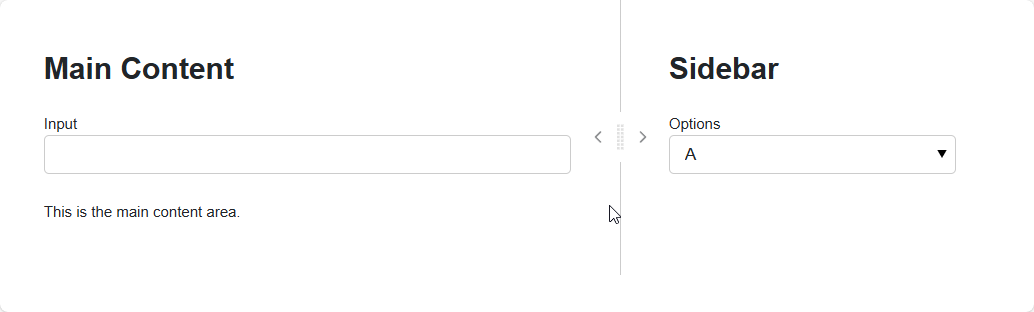
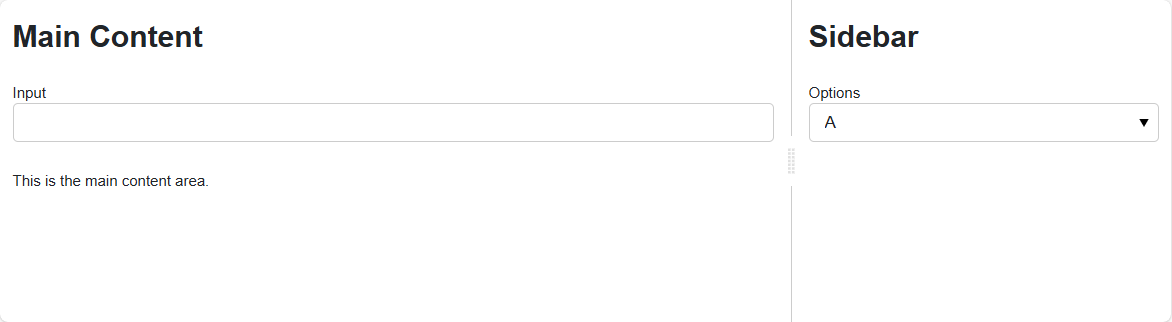
review

diff --git a/src/panel_splitjs/base.py b/src/panel_splitjs/base.py
@@ -109,7 +109,7 @@ class Split(SplitBase):
         The component to place in the left panel.
         When invert=True, this will appear on the right side.""")
 
-    show_buttons = param.Boolean(default=True, doc="""
+    show_buttons = param.Boolean(default=False, doc="""
         Whether to show the toggle buttons on the divider.
         When False, the buttons are hidden and panels can only be resized by dragging.""")
 

diff --git a/README.md b/README.md
@@ -41,11 +41,10 @@ pn.extension()
 
 # Create a simple split layout
 split = Split(
-    pn.pane.Markdown("## Left Panel\nContent here", width=150, margin=25),
-    pn.pane.Markdown("## Right Panel\nMore content", width=150, margin=25),
+    pn.pane.Markdown("## Left Panel\nContent here", width=150),
+    pn.pane.Markdown("## Right Panel\nMore content", width=150),
     sizes=(50, 50),  # Equal sizing initially
     min_size=150,     # Minimum 150px for each panel
-    show_buttons=True, # Show collapse/expand buttons on the divider
     sizing_mode="stretch_both",
 )
 
@@ -99,23 +98,47 @@ from panel_splitjs import VSplit
 
 pn.extension()
 
-top_panel = pn.pane.Markdown("## Top Section\nHeader content", margin=(10,10,25,10))
-bottom_panel = pn.pane.Markdown("## Bottom Section\nFooter content", margin=(25,10,10,10))
+top_panel = pn.pane.Markdown("## Top Section\nHeader content")
+bottom_panel = pn.pane.Markdown("## Bottom Section\nFooter content")
 
 split = VSplit(
     top_panel,
     bottom_panel,
-    sizes=(60, 40),
-    min_size=150,
-    height=500,
-    width=300,
-    styles={"border": "1px solid gray"}
+    sizes=(70, 30),
+    min_size=200,
+    height=600,
+    sizing_mode="stretch_width"
 )
 
 split.servable()
 ```
 
 ![Basic Vertical Split Example](docs/assets/images/basic-vertical-split.png)
+
+### Show Buttons
+
+```python
+import panel as pn
+from panel_splitjs import Split
+
+pn.extension()
+
+# Create a simple split layout
+split = Split(
+    pn.pane.Markdown("## Left Panel\nContent here", width=150, margin=(10,25,10,10)),
+    pn.pane.Markdown("## Right Panel\nMore content", width=150, margin=(10,10,10,25)),
+    sizes=(50, 50),  # Equal sizing initially
+    min_size=150,     # Minimum 150px for each panel
+    show_buttons=True,
+    sizing_mode="stretch_both",
+)
+
+split.servable()
+```
+
+Note: We add `margin` to the `Markdown` panes to not overlay the buttons onto them.
+
+![Show Buttons Example](docs/assets/images/show-buttons.png)
 
 ### Collapsible Sidebar
 
@@ -133,7 +156,6 @@ split = Split(
     pn.pane.Markdown("## Collapsible Sidebar", margin=(10,10,10,25)),
     collapsed=1,  # 0 for first panel, 1 for second panel, None for not collapsed
     expanded_sizes=(80, 20),  # When expanded, 80% main, 20% sidebar
-    show_buttons=False,
     sizing_mode="stretch_both",
 )
 
@@ -146,7 +168,7 @@ button.on_click(toggle)
 split.servable()
 ```
 
-![Collapsable Sidebar Example](docs/assets/images/collapsable-sidebar.gif)
+![Collapsible Sidebar Example](docs/assets/images/Collapsible-sidebar.gif)
 
 ### Multi-Panel Split
 
@@ -186,7 +208,7 @@ The main split panel component for creating two-panel layouts with collapsible f
 - `max_size` (int | tuple, default=None): Maximum sizes in pixels - single value applies to both panels, tuple for individual sizes
 - `min_size` (int | tuple, default=0): Minimum sizes in pixels - single value applies to both panels, tuple for individual sizes
 - `orientation` (str, default="horizontal"): Either `"horizontal"` or `"vertical"`
-- `show_buttons` (bool, default=True): Show collapse/expand toggle buttons on the divider
+- `show_buttons` (bool, default=False): Show collapse/expand toggle buttons on the divider
 - `sizes` (tuple, default=(50, 50)): Initial percentage sizes of the panels
 - `snap_size` (int, default=30): Snap to minimum size at this offset in pixels
 - `step_size` (int, default=1): Step size in pixels at which panel sizes can be changed
@@ -236,7 +258,6 @@ split = Split(
     output,
     collapsed=None,  # Both panels visible
     expanded_sizes=(50, 50),
-    show_buttons=True,
     min_size=(600, 300),  # Minimum 300px for each panel
     sizing_mode="stretch_both",
 )
@@ -276,7 +297,7 @@ split = Split(
 split.servable()
 ```
 
-![Dashboard with Collapsable Controls](docs/assets/images/dashboard-with-collapsable-controls.png)
+![Dashboard with Collapsible Controls](docs/assets/images/dashboard-with-Collapsible-controls.png)
 
 ### Responsive Layout with Size Constraints
 
@@ -300,7 +321,7 @@ split = Split(
 split.servable()
 ```
 
-![Responsibe Layout with Size Constraints](docs/assets/images/responsive-layout-with-size-constraints.png)
+![Responsive Layout with Size Constraints](docs/assets/images/responsive-layout-with-size-constraints.png)
 
 ### Complex Multi-Panel Layout
 
@@ -346,9 +367,9 @@ left = pn.pane.Markdown("## Left Panel")
 
 # Right side has a vertical split
 with pn.config.set(sizing_mode="stretch_both"):
-    top_right = pn.pane.Markdown("## Top Right", margin=(5,25,5,5))
-    bottom_right = pn.pane.Markdown("## Bottom Right", margin=(25,25,5,5))
-    right = VSplit(top_right, bottom_right, sizes=(60, 40), margin=(5,5,25,25))
+    top_right = pn.pane.Markdown("## Top Right")
+    bottom_right = pn.pane.Markdown("## Bottom Right")
+    right = VSplit(top_right, bottom_right, sizes=(60, 40))
 
     # Main horizontal split
     layout = HSplit(
@@ -389,6 +410,15 @@ pixi run build
 
 ```bash
 pixi run test
+```
+
+### Pre-commit
+
+Before committing the first time please install `pre-commit`:
+
+```bash
+pip install pre-commit
+pre-commit install
 ```
 
 ## Contributing
